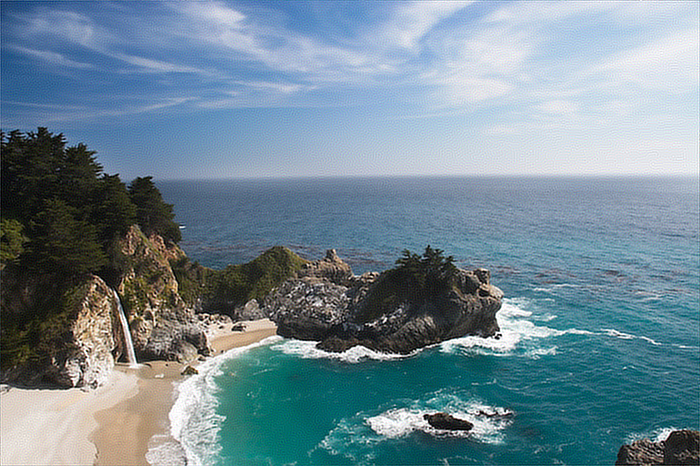
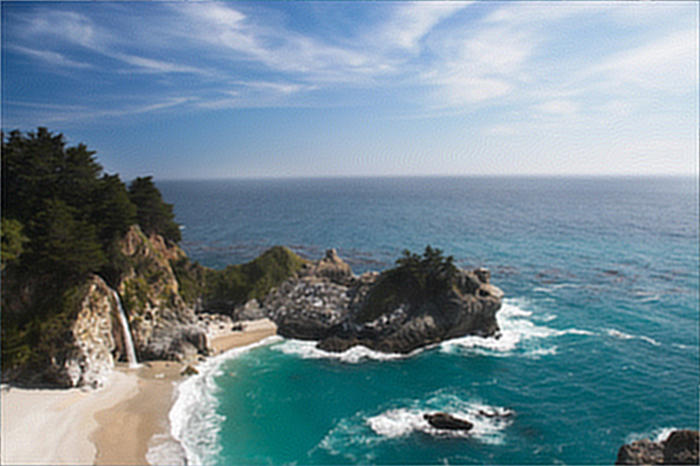
fix readme formatting

diff --git a/README.md b/README.md
@@ -4,6 +4,6 @@
 
 | Original | Deconvolved |
 | --- | --- |
-| ![Before deconvolution](before_deconvolution.png) | ![After deconvolution](after_deconvolution.png) |
+| <img src="before_deconvolution.png" alt="Before deconvolution" width="400"> | <img src="after_deconvolution.png" alt="After deconvolution" width="400"> |
 
 _Before (left) is the motion-blurred sample; after (right) is restored using `wiener_with`._